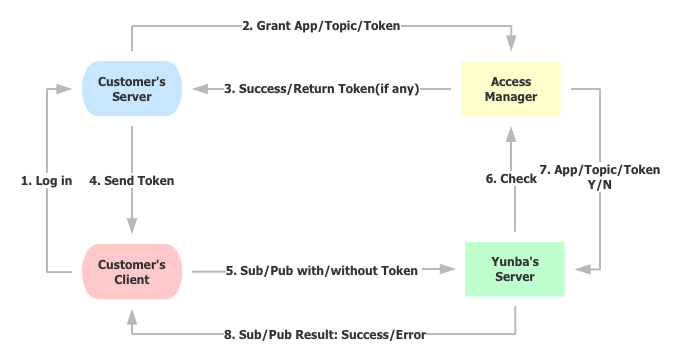
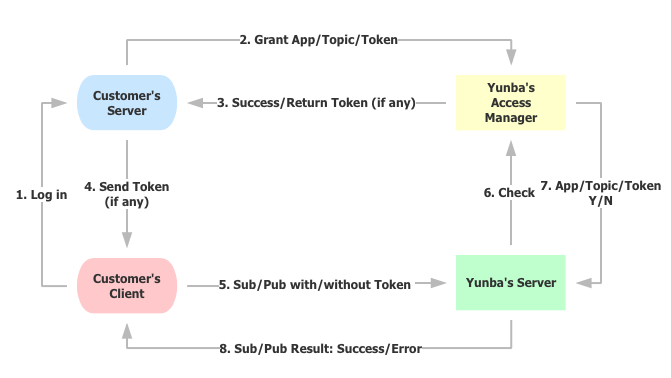
update access manager

diff --git a/product_kb_access_manager.md b/product_kb_access_manager.md
@@ -5,12 +5,33 @@
 
 目前，市面上的大多数应用都或多或少地涉及到对用户账号的权限控制，应用开发者们希望能够用一种简易而安全的方式管理用户，控制他们对不同内容的访问权和发布权。
 
-针对这一需求，我们推出了权限管理。如下图所示。
+针对这一需求，我们推出了权限管理。
 
+
+
+**应用开发者们需要建立自己的权限管理服务器**，一面向云巴请求权限，一面将不同的权限授予其不同的用户。开启权限管理后，用户的所有 Pub/Sub 等操作都会需要经过云巴权限管理模块的核查，认证成功后才会执行。
 
 ![productpng_access_manager_process.png](https://raw.githubusercontent.com/yunba/docs/master/image/productpng_access_manager_process.png)
 
-**应用开发者们需要建立自己的权限管理服务器**，一面向云巴请求权限，一面将不同的权限授予其不同的用户。开启权限管理后，用户的所有 Pub/Sub 等操作都会需要经过云巴权限管理模块的核查，认证成功后才会执行。
+
+如上图所示。
+
+- Customer's Server：应用开发者的权限管理服务器
+- Customer's Client：应用开发者的终端用户的客户端
+- Yunba's Access Manager：云巴的权限管理模块
+- Yunba's Server：云巴实时系统的服务器
+
+开启权限管理后，大致的通信流程如下（其中，用户的服务器和客户端之间的通信逻辑由用户自己决定）：
+
+1. 用户在客户端注册并登录账号；
+2. 开发者的权限管理服务器根据自身账号管理的逻辑，决定分配怎样的权限给该用户，并通过向云巴权限管理模块请求 App/Topic/Token 权限来获得相应层级的权限；
+3. 云巴权限管理模块处理请求并返回结果（如果请求的是 Token 权限，会将 Token 返回给开发者的服务器）；
+4. 开发者的服务器将收到的 Token 发给客户端（如果申请的是 App 或 Topic 层级的权限，则不存在这一步骤）；
+5. 此时，用户的客户端可以进行发布/订阅操作了（如果涉及 Token，需要带上 Token）；
+6. 云巴服务器收到用户的发布/订阅消息后，会请求权限管理模块进行审核；
+7. 权限管理模块将审核结果返回给消息服务器；
+8. 消息服务器根据结果来决定是否用户的发布/订阅请求是否可以执行：是，则返回成功，并执行用户请求的发布/订阅操作；否，则返回错误。
+
 
 云巴的权限管理采用了白名单模式。
 
